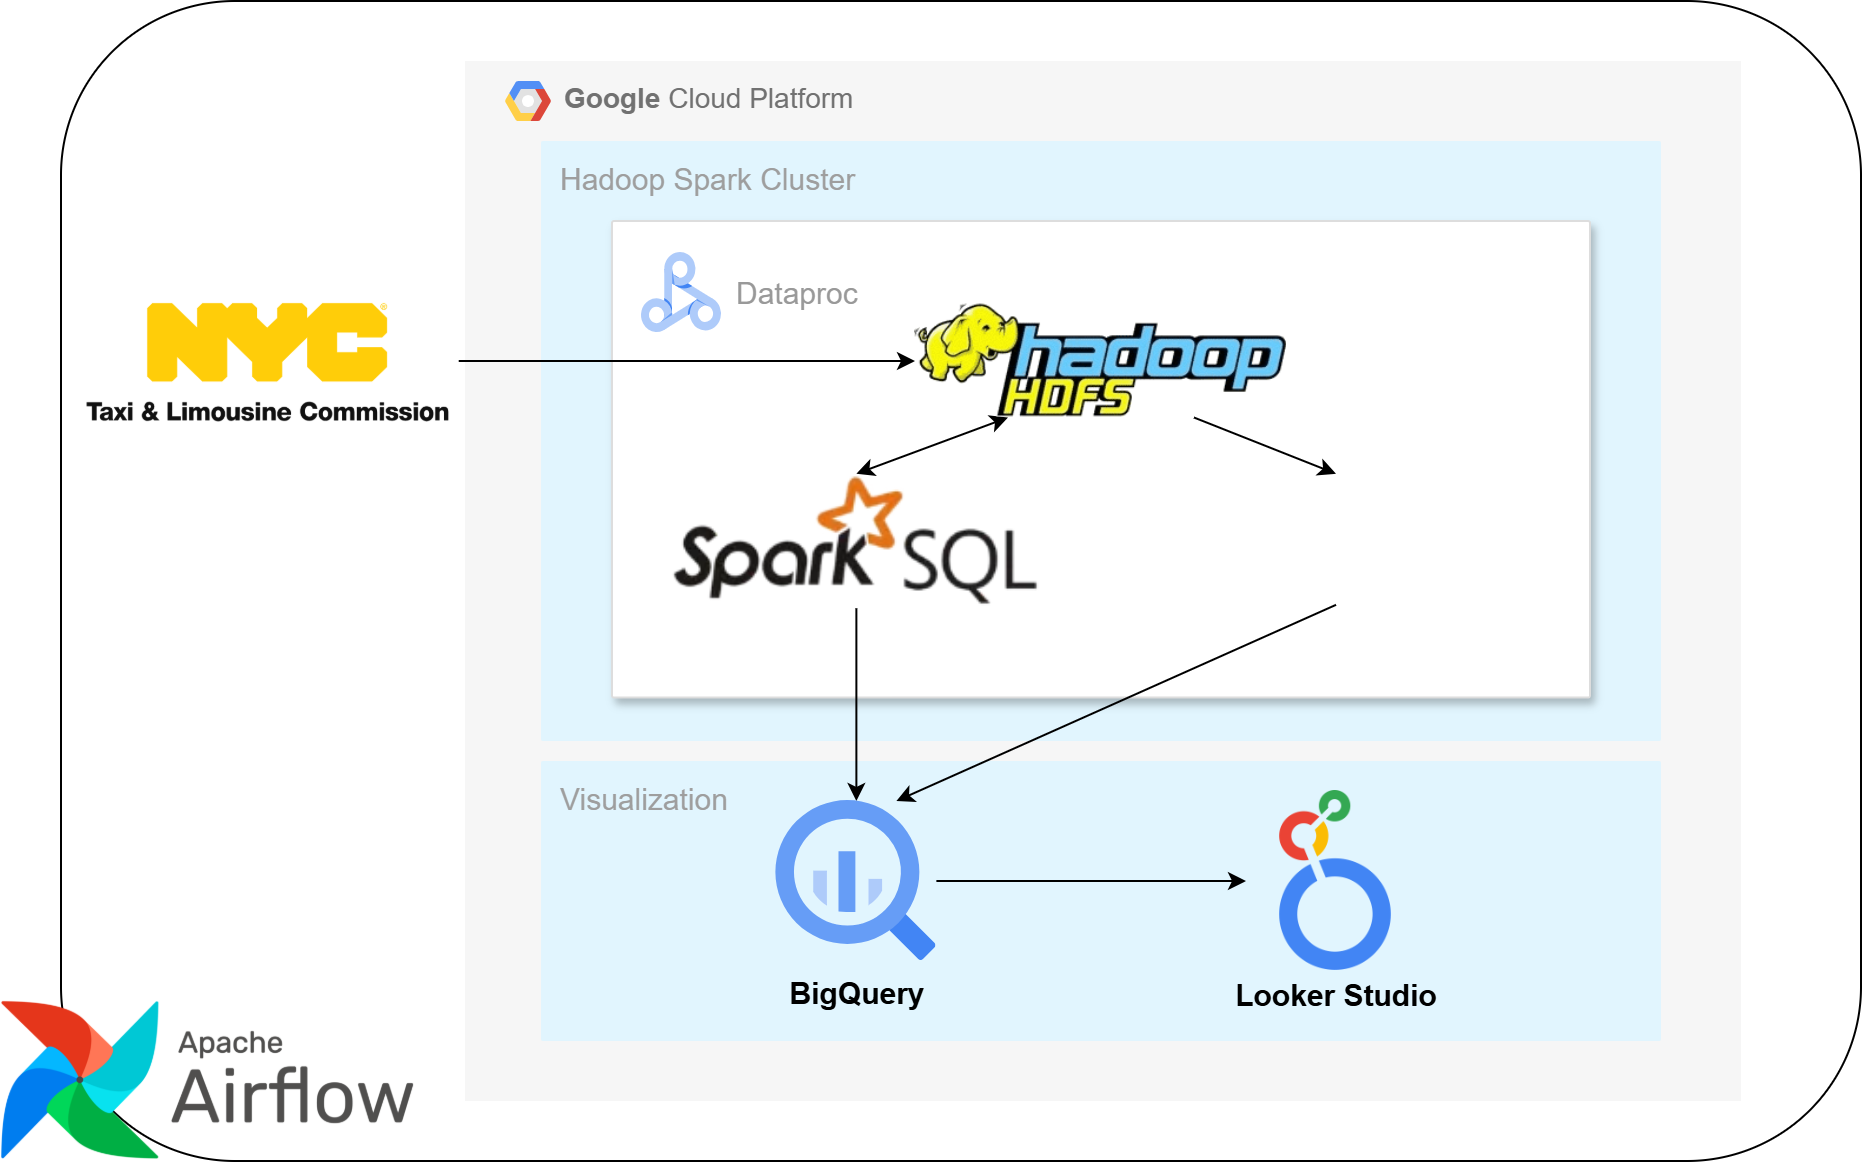
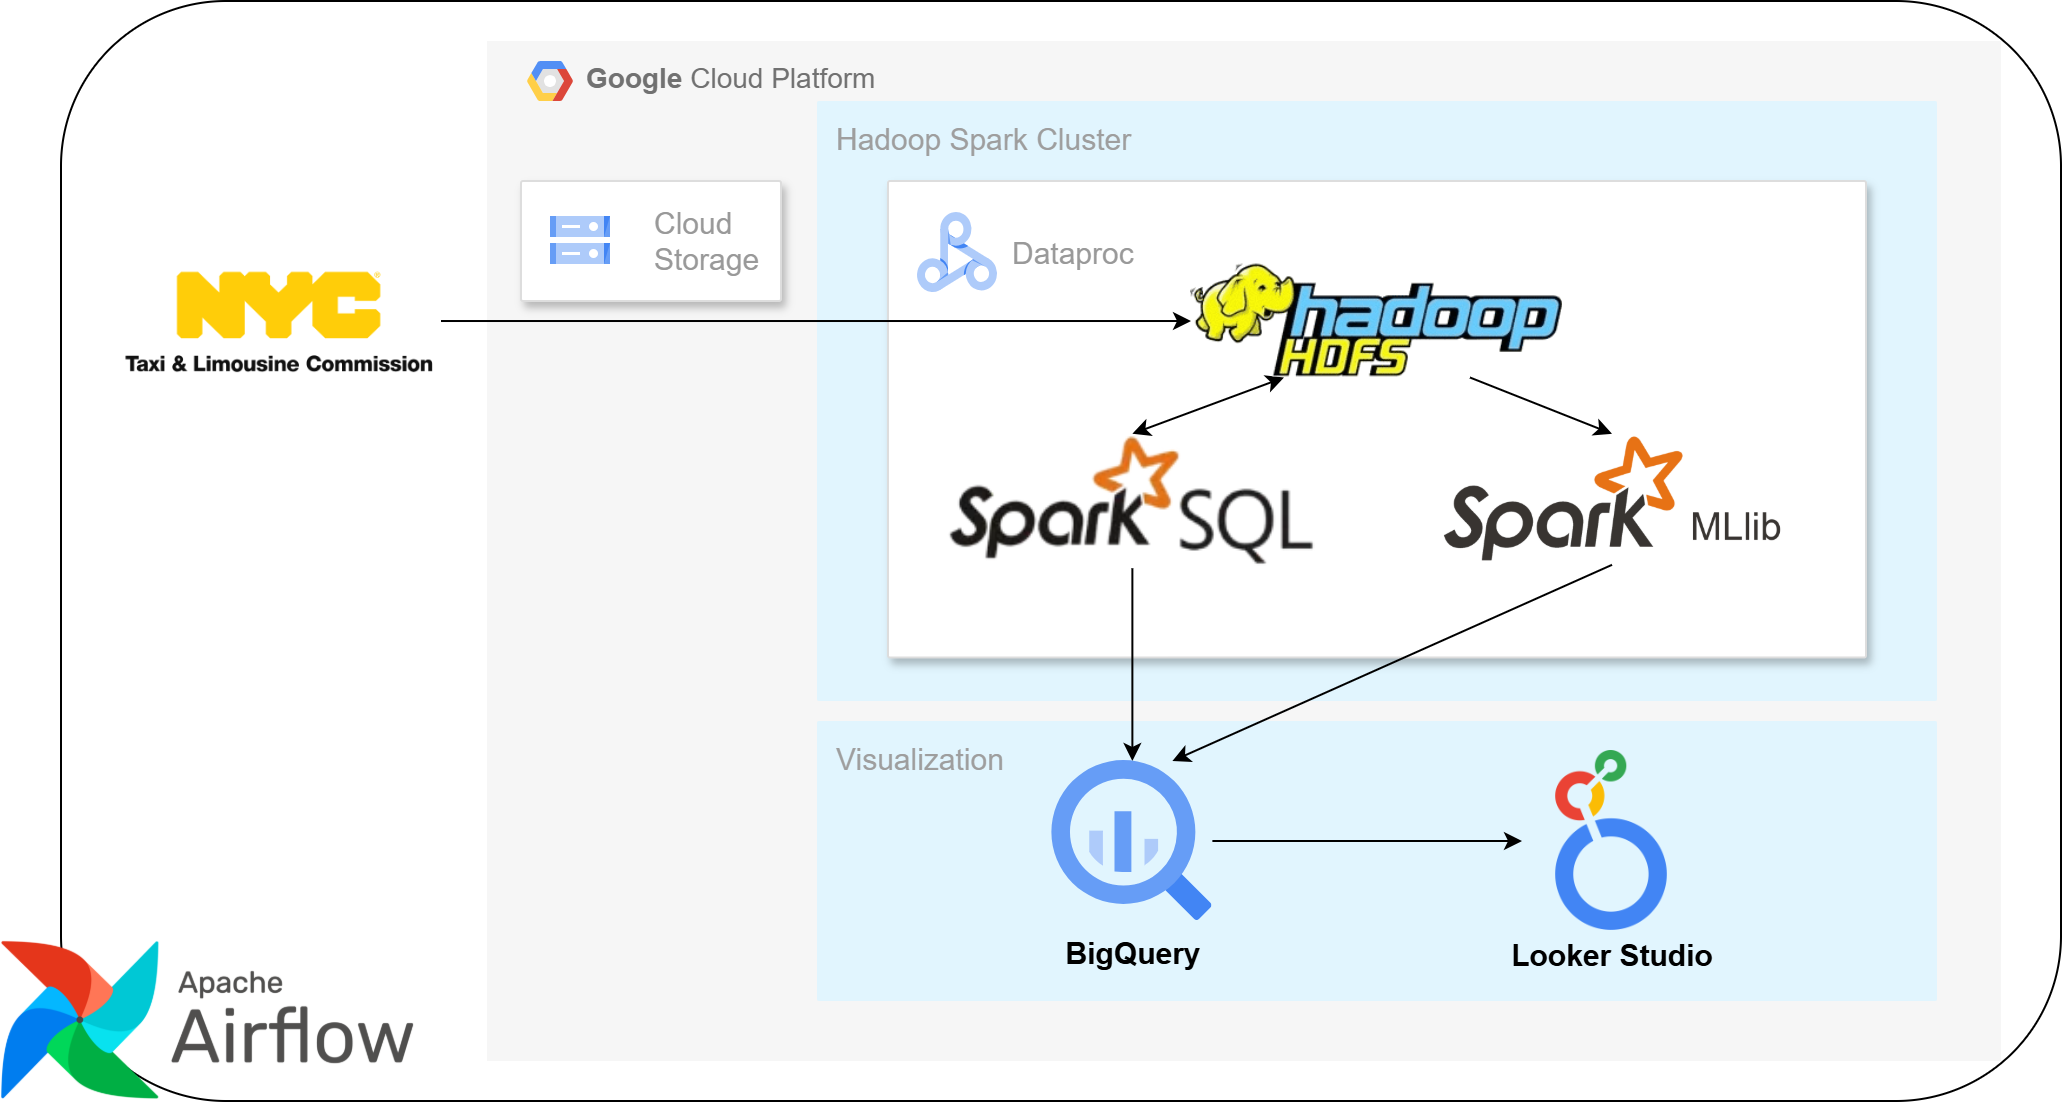
fix docs

diff --git a/README.md b/README.md
@@ -10,7 +10,7 @@ This project focuses on the batch processing and analysis of New York TLC (Taxi 
 - Google Dataproc: Managed service for running Apache Spark, Apache Hadoop
     - Spark SQL: For data processing and analysis
     - Spark MLlib: For machine learning tasks
-    - Hadoop HDFS: Data Warehouse Storage
+    - Hadoop HDFS: Data Warehouse & Raw Storage
 - Google BigQuery & Looker Studio: For visualization
 - Apache Airflor: For workflow orchestration
 
